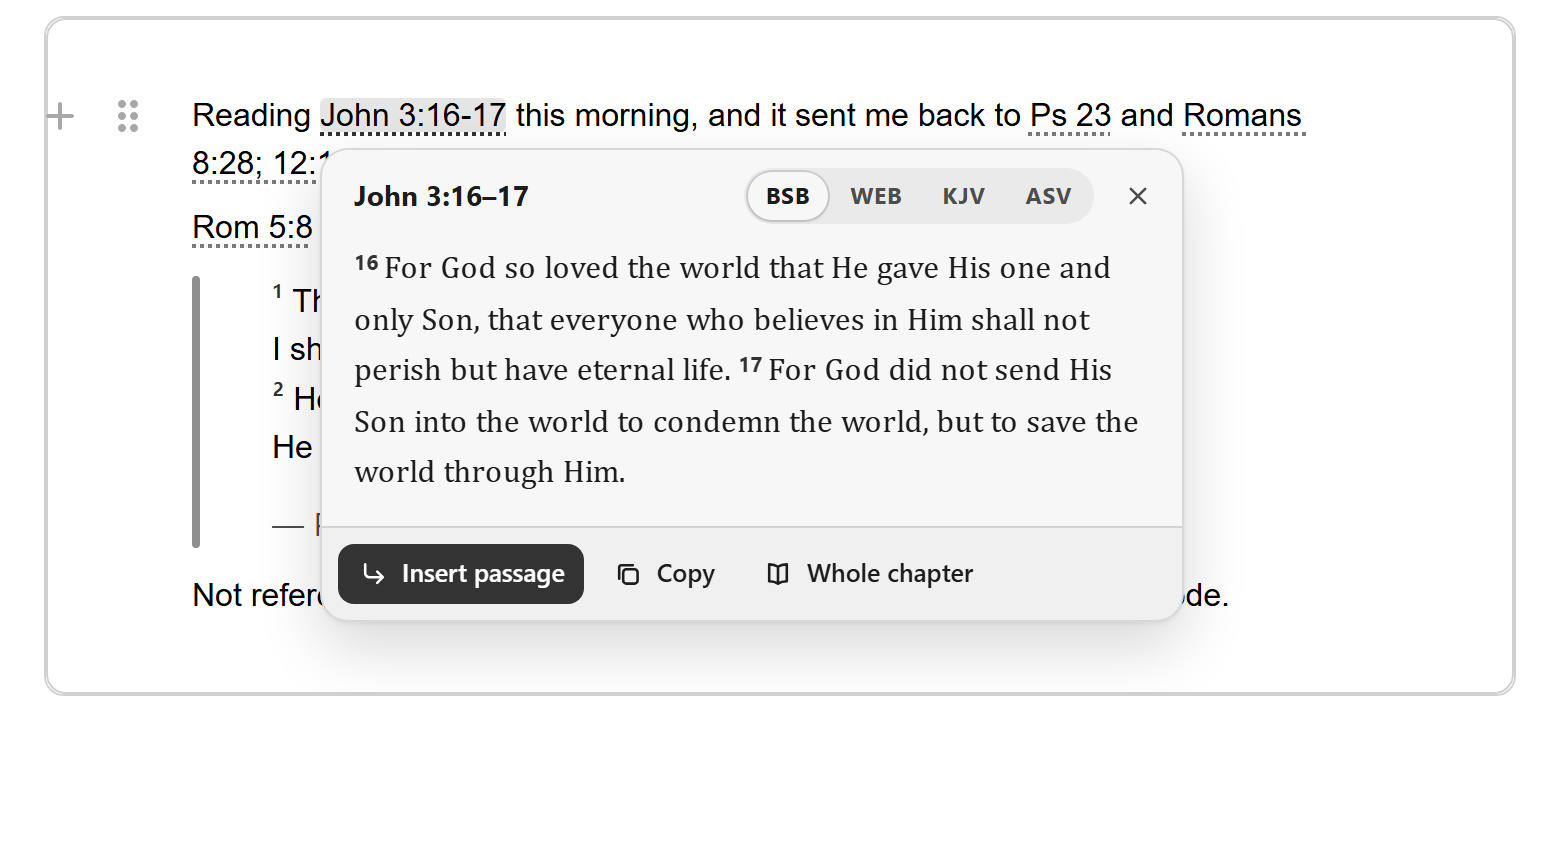
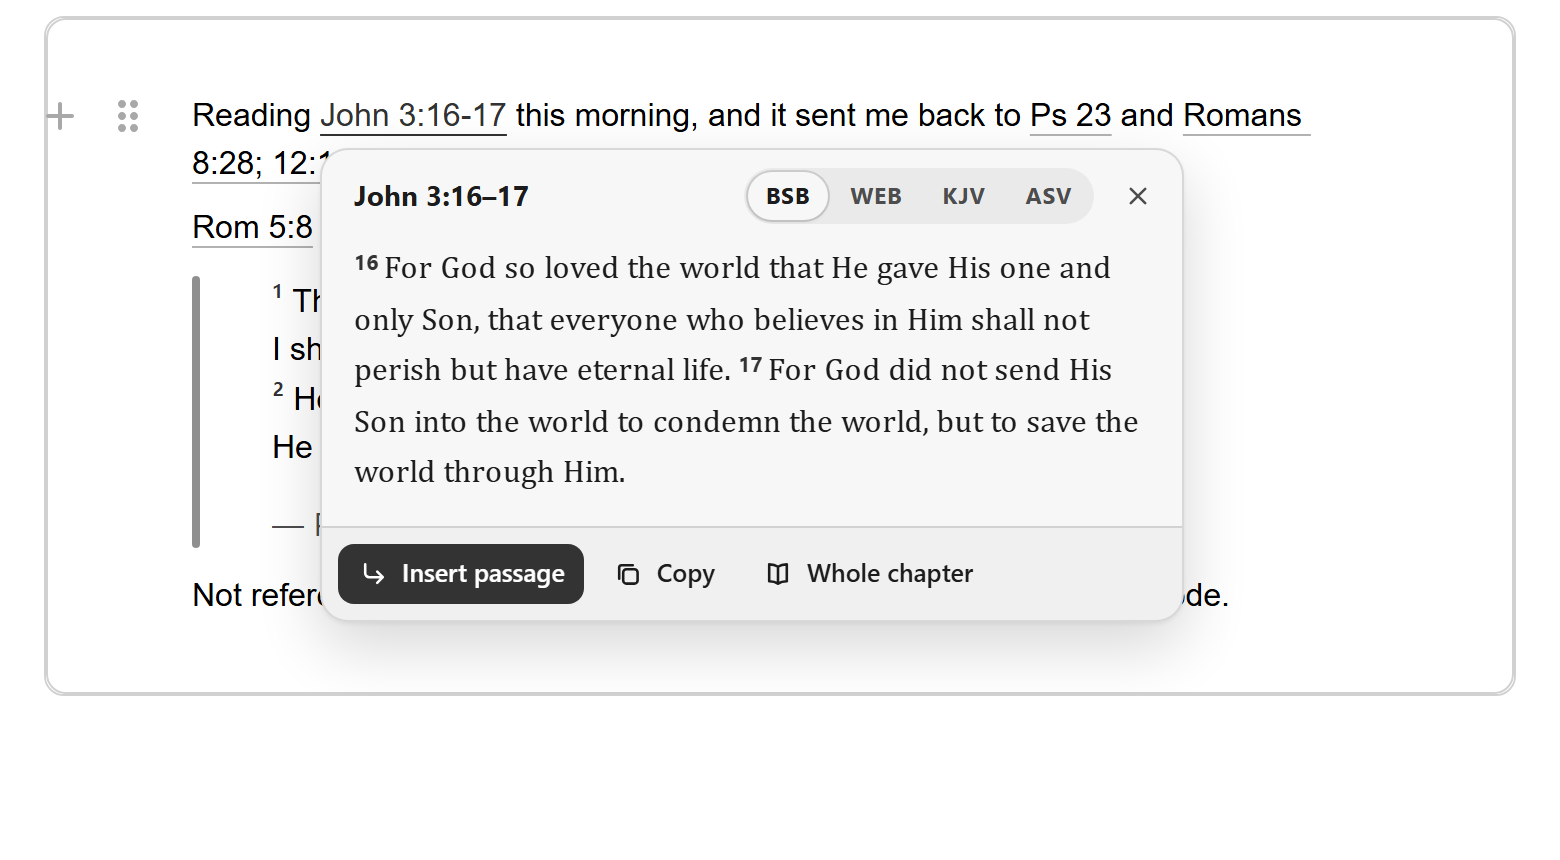
0.1.2: mark references with a thin solid underline
The dotted, accent-coloured underline looked like a spelling or grammar
mark. A reference now has a 1px solid underline in the colour of the
text around it, and turns the accent colour when pointed at or while
its passage is open. The background tint on hover is gone.

The README screenshot is retaken with the new style.

diff --git a/src/style.css b/src/style.css
@@ -5,7 +5,7 @@
  * browser's own colours otherwise. Override any of the --bible-* properties
  * on an ancestor of the editor to restyle it:
  *
- *   --bible-accent      links, verse numbers, the primary button
+ *   --bible-accent      a reference when pointed at, verse numbers, the primary button
  *   --bible-on-accent   text on the accent colour
  *   --bible-surface     popover background
  *   --bible-text        popover text
@@ -38,19 +38,20 @@
 
 /* ---- In the document ---------------------------------------------------- */
 
+/* A thin, solid line in the text's own colour: it says "this opens" the way a
+   link does. Dotted, wavy or coloured lines read as spelling and grammar marks. */
 .ProseMirror .bible-ref {
-  border-radius: 3px;
-  text-decoration: underline dotted color-mix(in srgb, var(--_accent) 65%, transparent);
-  text-decoration-thickness: 1.5px;
-  text-underline-offset: 0.2em;
+  text-decoration: underline solid color-mix(in srgb, currentColor 30%, transparent);
+  text-decoration-thickness: 1px;
+  text-underline-offset: 0.22em;
   transition:
-    background-color 120ms ease,
+    color 120ms ease,
     text-decoration-color 120ms ease;
 }
 
 .ProseMirror .bible-ref:hover,
 .ProseMirror .bible-ref--active {
-  background-color: var(--_tint);
+  color: var(--_accent);
   text-decoration-color: var(--_accent);
 }
 

diff --git a/README.md b/README.md
@@ -158,7 +158,7 @@ const provider = cachedProvider(helloaoProvider(), {
 
 ```css
 .milkdown {
-  --bible-accent: #2a7628; /* underline, verse numbers, primary button */
+  --bible-accent: #2a7628; /* a reference when pointed at, verse numbers, primary button */
   --bible-on-accent: #fff;
   --bible-surface: #fff; /* popover background */
   --bible-text: #15281a;
@@ -172,7 +172,7 @@ const provider = cachedProvider(helloaoProvider(), {
 }
 ```
 
-Classes in the document: `.bible-ref` on each reference, `.bible-passage` on a quoted passage, `.bible-passage-cite` on its citation line, `.bible-verse-number` on its verse numbers.
+A reference at rest has a thin underline in the colour of the text around it. Classes in the document: `.bible-ref` on each reference, `.bible-passage` on a quoted passage, `.bible-passage-cite` on its citation line, `.bible-verse-number` on its verse numbers.
 
 ## Without the editor
 

diff --git a/CHANGELOG.md b/CHANGELOG.md
@@ -1,5 +1,9 @@
 # Changelog
 
+## 0.1.2
+
+- References are marked with a thin solid underline in the colour of the surrounding text, and turn the accent colour when pointed at or open. The dotted accent-coloured underline looked like a spelling or grammar mark.
+
 ## 0.1.1
 
 No code changes. This is the first release published by GitHub Actions, so it carries a provenance statement linking it to the commit and workflow run that built it.
